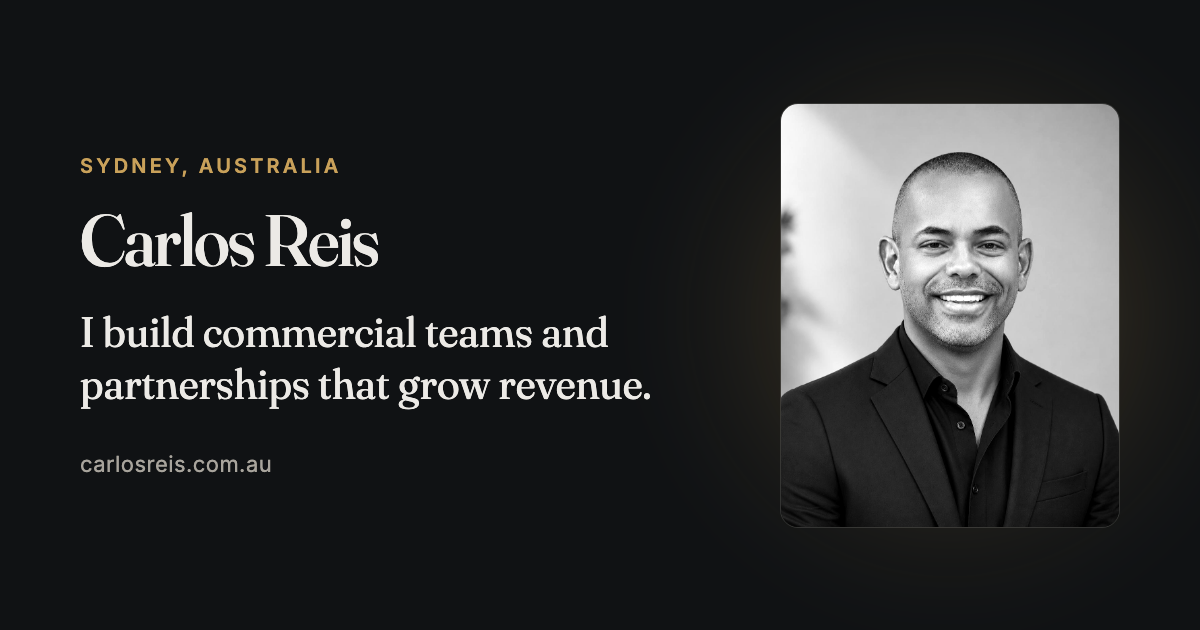
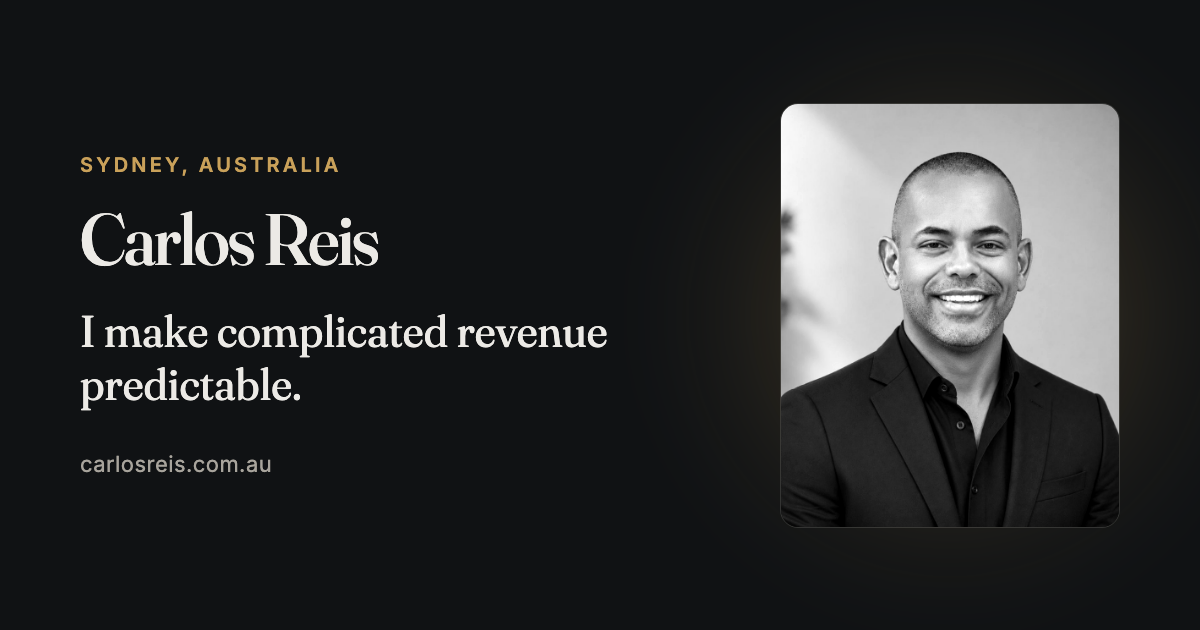
Reposition: new headline, six-stat track record, levelled skills
Headline becomes 'I make complicated revenue predictable', with a sub-line
that frames the complexity rather than the sector. Chosen over two
alternatives after an external recruiter review: the previous line was
interchangeable with every sales leader in Sydney, and a partner-led
headline would have narrowed the role types and the salary band.

Track record goes to six figures in a 3x2 grid. Adds the partner network
rationalisation and forecast variance, which carry more weight with boards
than growth alone. Drops team size and the post-acquisition brand count as
overclaiming. Metadata and the share card follow the new headline.

Skills levelled at four per column. Adds complaints and regulator response,
which is the most sector-portable thing in the CV and was missing.

diff --git a/index.html b/index.html
@@ -22,7 +22,7 @@
   <meta name="referrer" content="strict-origin-when-cross-origin">
 
   <title>Carlos Reis | Commercial Leader in Sales, Business Development &amp; CX</title>
-  <meta name="description" content="Carlos Reis is a Sydney-based senior commercial leader who grows revenue through sales, business development and customer experience.">
+  <meta name="description" content="Carlos Reis is a Sydney-based senior commercial leader who makes complicated revenue predictable, across sales, business development and customer experience.">
   <link rel="canonical" href="https://carlosreis.com.au/">
   <meta name="robots" content="index, follow">
   <meta name="theme-color" content="#101214">
@@ -31,7 +31,7 @@
   <meta property="og:type" content="website">
   <meta property="og:url" content="https://carlosreis.com.au/">
   <meta property="og:title" content="Carlos Reis | Commercial Leader in Sales, BD &amp; CX">
-  <meta property="og:description" content="Sydney-based senior commercial leader. I build teams and partnerships that grow revenue.">
+  <meta property="og:description" content="Sydney-based senior commercial leader. I make complicated revenue predictable.">
   <meta property="og:image" content="https://carlosreis.com.au/images/share-card.png">
   <meta property="og:image:width" content="1200">
   <meta property="og:image:height" content="630">
@@ -39,7 +39,7 @@
   <meta property="og:locale" content="en_AU">
   <meta name="twitter:card" content="summary_large_image">
   <meta name="twitter:title" content="Carlos Reis | Commercial Leader in Sales, BD &amp; CX">
-  <meta name="twitter:description" content="Sydney-based senior commercial leader. I build teams and partnerships that grow revenue.">
+  <meta name="twitter:description" content="Sydney-based senior commercial leader. I make complicated revenue predictable.">
   <meta name="twitter:image" content="https://carlosreis.com.au/images/share-card.png">
 
   <link rel="icon" href="favicon.svg" type="image/svg+xml">
@@ -47,7 +47,7 @@
 
   <link rel="preload" href="fonts/fraunces-latin.woff2" as="font" type="font/woff2" crossorigin>
   <link rel="preload" href="fonts/inter-latin.woff2" as="font" type="font/woff2" crossorigin>
-  <link rel="stylesheet" href="styles.css?v=2">
+  <link rel="stylesheet" href="styles.css?v=3">
 
   <script type="application/ld+json">
   {
@@ -57,7 +57,7 @@
     "url": "https://carlosreis.com.au/",
     "image": "https://carlosreis.com.au/images/headshot.jpg",
     "jobTitle": "Commercial Leader in Sales, Business Development and Customer Experience",
-    "description": "Sydney-based senior commercial leader who grows revenue through sales, business development and customer experience.",
+    "description": "Sydney-based senior commercial leader who makes complicated revenue predictable, across sales, business development and customer experience.",
     "address": {
       "@type": "PostalAddress",
       "addressLocality": "Sydney",
@@ -134,8 +134,8 @@
       <div class="hero-text">
         <p class="eyebrow">Sydney, Australia</p>
         <h1>Carlos Reis</h1>
-        <p class="hero-headline">I build commercial teams and partnerships that grow revenue.</p>
-        <p class="hero-sub">Senior leader across sales, business development and customer experience, with a record of turning complex, multi-stakeholder markets into growth.</p>
+        <p class="hero-headline">I make complicated revenue predictable.</p>
+        <p class="hero-sub">I run the whole revenue line, from new business through account growth to customer experience, in businesses where the sale involves many parties, long cycles and real regulatory weight.</p>
         <div class="hero-actions">
           <a class="btn" href="https://meetings.hubspot.com/hello3189?uuid=edfc3815-68ff-4b9c-b841-300e1661205b" target="_blank" rel="noopener">Book a call</a>
           <a class="link-quiet" href="https://www.linkedin.com/in/mrcarlosreis/" target="_blank" rel="noopener">LinkedIn <span aria-hidden="true">↗</span></a>
@@ -154,20 +154,29 @@
       <div class="stats-grid">
         <div class="stat">
           <p class="stat-number">195%</p>
-          <p class="stat-caption">Growth in active clients, 177 to 523, in 19 months</p>
+          <p class="stat-caption">Client growth in 19 months, 177 to 523. Revenue $3.5M to $10.5M</p>
         </div>
         <div class="stat">
-          <p class="stat-number">$10.5M</p>
-          <p class="stat-caption">Annualised new revenue, up from $3.5M over 19 months</p>
+          <p class="stat-number">85%</p>
+          <p class="stat-caption">Client retention, with 95% satisfaction across key accounts</p>
         </div>
         <div class="stat">
           <p class="stat-number">32%</p>
-          <p class="stat-caption">YoY growth in domestic new business, $10M portfolio</p>
+          <p class="stat-caption">Year-on-year growth in domestic new business, $10M portfolio</p>
         </div>
         <div class="stat">
           <p class="stat-number">$40M</p>
-          <p class="stat-caption">Peak partner network revenue, 300+ partners in three regions</p>
+          <p class="stat-caption">Peak annual partner network revenue, 300+ partners, three regions</p>
         </div>
+        <div class="stat">
+          <p class="stat-number">1,000 to 280</p>
+          <p class="stat-caption">Partner network rationalised on performance and compliance</p>
+        </div>
+        <div class="stat">
+          <p class="stat-number">10%</p>
+          <p class="stat-caption">Forecast variance held across a high-volume, multi-site operation</p>
+        </div>
+      </div>
       </div>
     </section>
 
@@ -198,6 +207,7 @@
             <li>Team leadership &amp; sales coaching</li>
             <li>Executive stakeholder presentations</li>
             <li>Post-acquisition integration</li>
+            <li>Change management &amp; cross-functional engagement</li>
           </ul>
         </div>
         <div class="skill-group">
@@ -206,6 +216,7 @@
             <li>Sales pipeline governance &amp; forecasting</li>
             <li>CRM governance in HubSpot and Salesforce</li>
             <li>Budget management &amp; ROI analysis</li>
+            <li>Complaints, escalations and regulator response</li>
           </ul>
         </div>
       </div>
@@ -250,6 +261,6 @@
     </p>
   </footer>
 
-  <script src="main.js?v=2" defer></script>
+  <script src="main.js?v=3" defer></script>
 </body>
 </html>

diff --git a/404.html b/404.html
@@ -26,7 +26,7 @@
   <link rel="icon" href="/favicon.svg" type="image/svg+xml">
   <link rel="preload" href="/fonts/fraunces-latin.woff2" as="font" type="font/woff2" crossorigin>
   <link rel="preload" href="/fonts/inter-latin.woff2" as="font" type="font/woff2" crossorigin>
-  <link rel="stylesheet" href="/styles.css?v=2">
+  <link rel="stylesheet" href="/styles.css?v=3">
 </head>
 <body>
 
@@ -67,6 +67,6 @@
       <button type="button" class="linkish" id="cookie-settings">Cookie settings</button></p>
   </footer>
 
-  <script src="/main.js?v=2" defer></script>
+  <script src="/main.js?v=3" defer></script>
 </body>
 </html>

diff --git a/privacy.html b/privacy.html
@@ -28,7 +28,7 @@
   <link rel="icon" href="favicon.svg" type="image/svg+xml">
   <link rel="preload" href="fonts/fraunces-latin.woff2" as="font" type="font/woff2" crossorigin>
   <link rel="preload" href="fonts/inter-latin.woff2" as="font" type="font/woff2" crossorigin>
-  <link rel="stylesheet" href="styles.css?v=2">
+  <link rel="stylesheet" href="styles.css?v=3">
 </head>
 <body>
 
@@ -119,6 +119,6 @@
     </p>
   </footer>
 
-  <script src="main.js?v=2" defer></script>
+  <script src="main.js?v=3" defer></script>
 </body>
 </html>

diff --git a/styles.css b/styles.css
@@ -463,8 +463,8 @@ main {
 
 .stats-grid {
   display: grid;
-  grid-template-columns: repeat(4, 1fr);
-  gap: 3rem;
+  grid-template-columns: repeat(3, 1fr);
+  gap: 3.5rem 3rem;
 }
 
 .stat-number {
